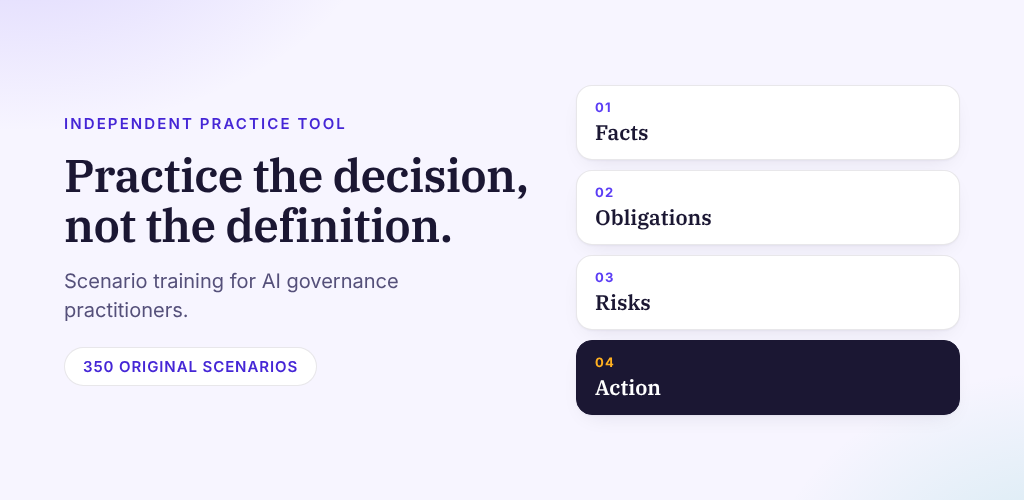
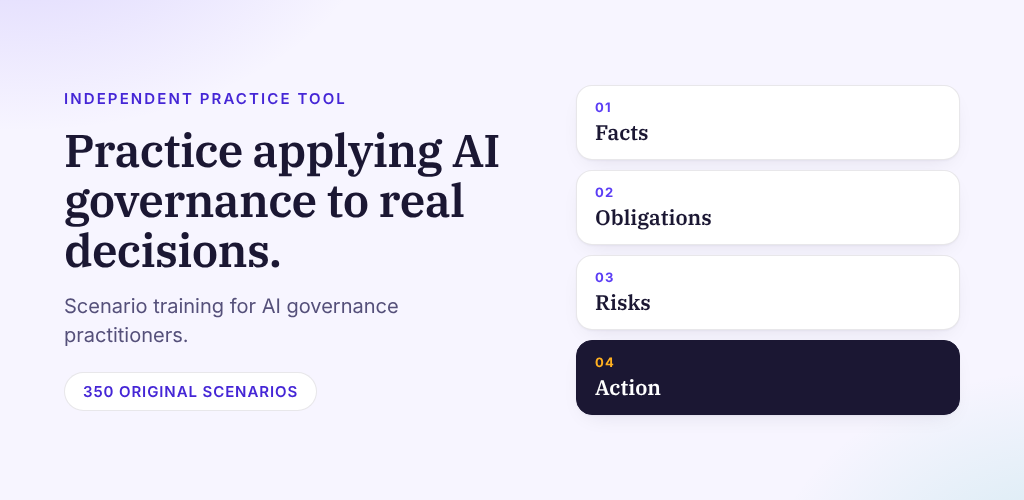
Replace the slogan headline with what the app does
"Practice the decision, not the definition" is a slogan, and reads as
one. The home page headline is now the approved line already in
src/lib/brand.ts, "Practice applying AI governance frameworks to
real-world decisions", and the Play feature graphic says the same and is
regenerated with npm run build:feature.

Claude-Session: https://claude.ai/code/session_01RUZN22C615EK7G8u5kACcp

Changed region(s): [[0.0625, 0.18, 0.5312, 0.69], [0.0625, 0.72, 0.3125, 0.81]]

diff --git a/src/app/page.tsx b/src/app/page.tsx
@@ -87,9 +87,7 @@ export default function RootPage() {
             {BRAND.tagline}
           </p>
           <h1 className="mt-3 text-[2.25rem] leading-[1.08] sm:text-[3.25rem]">
-            Practice the decision,{" "}
-            <br className="hidden sm:inline" />
-            not the definition.
+            {BRAND.lines.apply}
           </h1>
           <p className="mt-5 text-[1.0625rem] leading-relaxed text-muted-foreground">
             {available} original questions, including {scenarioQuestions.length} questions across {factPatterns} multi-question fact patterns, put you inside a governance decision and ask what you would do. Then every option is explained — including

diff --git a/scripts/feature-graphic.html b/scripts/feature-graphic.html
@@ -84,7 +84,7 @@
 <body>
   <div>
     <p class="eyebrow">Independent practice tool</p>
-    <h1>Practice the decision,<br>not the definition.</h1>
+    <h1>Practice applying AI governance to real decisions.</h1>
     <p class="sub">Scenario training for AI governance practitioners.</p>
     <span class="pill">350 original scenarios</span>
   </div>
